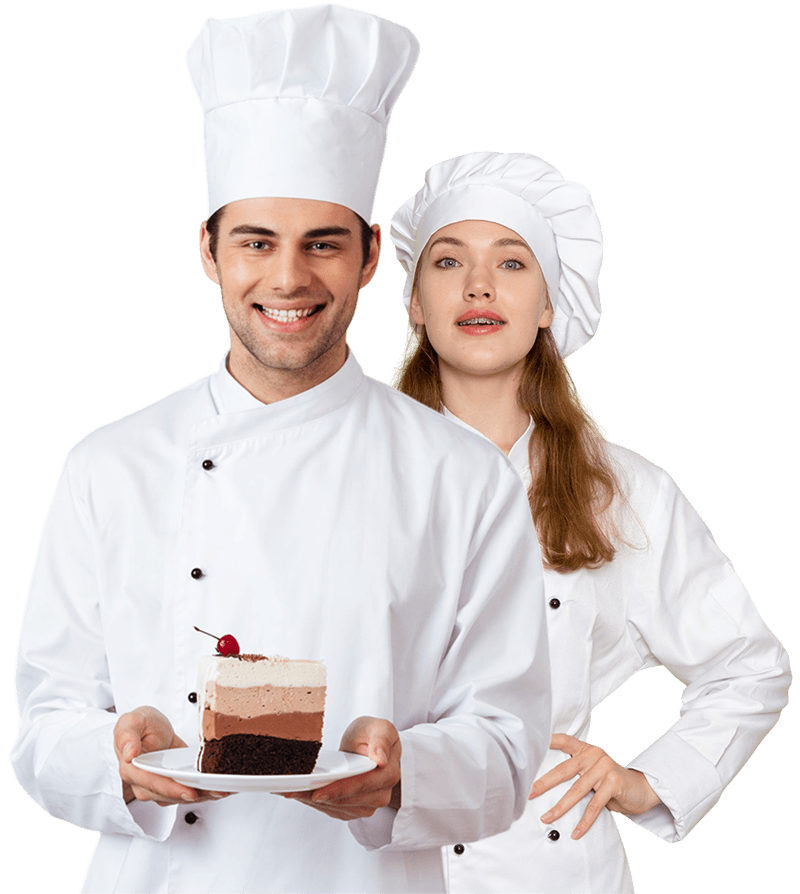
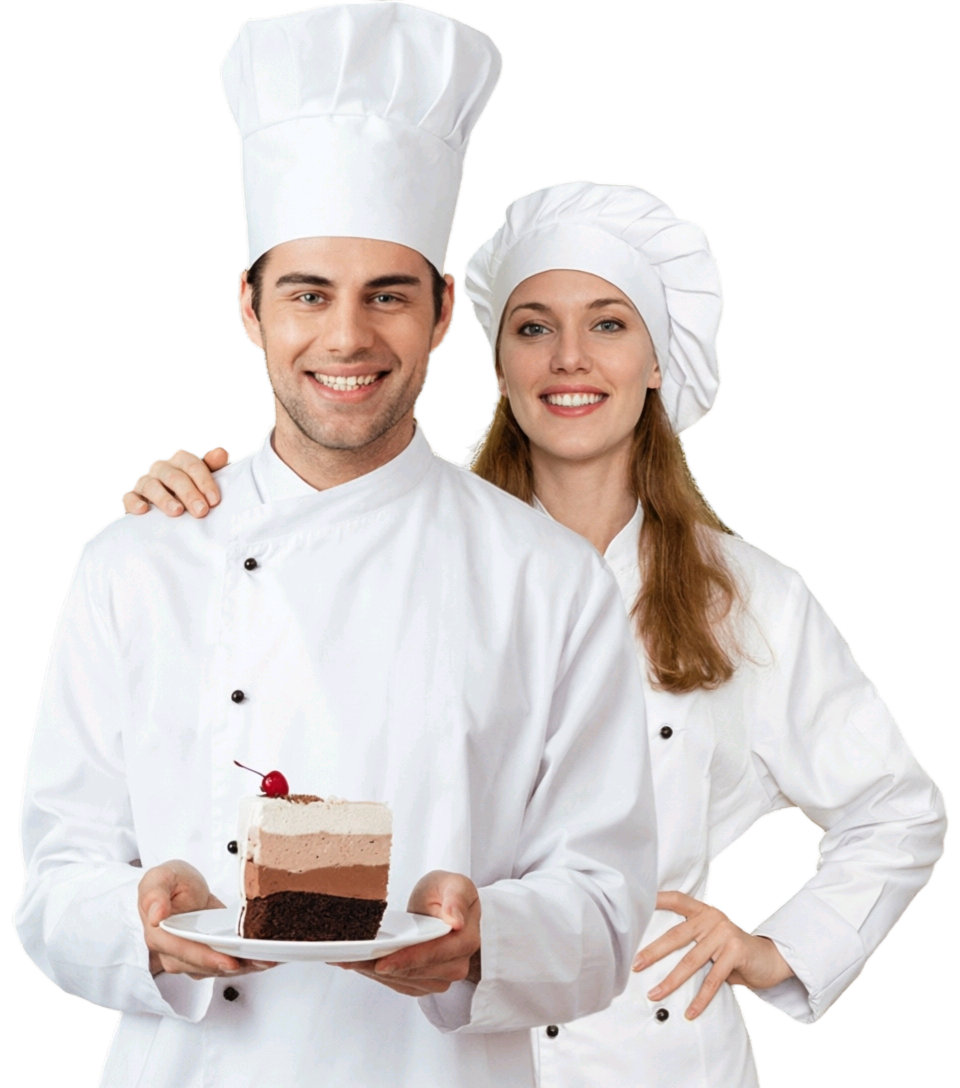
updated

diff --git a/assets/css/styles.css b/assets/css/styles.css
@@ -6,14 +6,14 @@
   --header-height: 3.5rem;
 
   /* Colors */
-  --first-color: hsl(350, 70%, 65%);
-  --first-color-alt: hsl(350, 70%, 62%);
-  --second-color: hsl(350, 40%, 20%);
-  --title-color: hsl(350, 28%, 15%);
-  --text-color: hsl(350, 25%, 28%);
+  --first-color: hsl(28, 70%, 62%);
+  --first-color-alt: hsl(0, 0%, 1%);
+  --second-color: hsl(28, 40%, 20%);
+  --title-color: hsl(28, 28%, 15%);
+  --text-color: hsl(28, 25%, 28%);
   --white-color: hsl(0, 0%, 100%);
-  --body-color: hsl(350, 95%, 90%);
-  --container-color: hsl(350, 100%, 97%);
+  --body-color: hsl(28, 95%, 90%);
+  --container-color: hsl(28, 100%, 97%);
 
   /* Font and typography */
   --body-font: "Montserrat", sans-serif;
@@ -225,7 +225,7 @@ img {
     background-color: var(--body-color);
     width: 80%;
     height: 100%;
-    box-shadow: -2px 0 16px hsla(350, 70%, 20%, 0.1);
+    box-shadow: -2px 0 16px hsla(28, 70%, 20%, 0.1);
     z-index: var(--z-fixed);
     transition: right 0.4s;
   }
@@ -238,7 +238,7 @@ img {
 
 /* Change header styles */
 .scroll-header {
-  box-shadow: 0 2px hsla(350, 70%, 20%, 0.1);
+  box-shadow: 0 2px hsla(28, 70%, 20%, 0.1);
 }
 
 /* Active link */
@@ -383,7 +383,7 @@ img {
 
 .button:hover {
   background-color: var(--first-color-alt);
-  box-shadow: 0 4px 24px hsla(350, 70%, 65%, 0.5);
+  box-shadow: 0 4px 24px hsla(28, 70%, 65%, 0.5);
 }
 
 /*=============== ABOUT SECTION ===============*/
@@ -482,7 +482,7 @@ img {
   bottom: 1.5rem;
   mask-image: linear-gradient(
     to bottom,
-    hsl(350, 70%, 65%) 85%,
+    hsl(28, 70%, 65%) 85%,
     transparent 95%
   );
 }
@@ -492,7 +492,7 @@ img {
   background-color: var(--white-color);
   color: var(--title-color);
   padding: 0.5rem 0.75rem;
-  box-shadow: 0 4px 24px hsla(350, 70%, 20%, 0.1);
+  box-shadow: 0 4px 24px hsla(28, 70%, 20%, 0.1);
   font-weight: 600;
   font-size: var(--small-font-size);
   border-radius: 4rem;
@@ -517,7 +517,7 @@ img {
   padding: 14rem 1.5rem 2rem;
   border-radius: 1.5rem;
   overflow: hidden;
-  box-shadow: 0 8px 16px hsla(350, 70%, 20%, 0.1);
+  box-shadow: 0 8px 16px hsla(28, 70%, 20%, 0.1);
   transition: transform 0.4s;
 }
 
@@ -538,7 +538,7 @@ img {
   right: 0;
   left: 0;
   margin-inline: auto;
-  filter: drop-shadow(0 8px 16px hsla(350, 70%, 8%, 0.2));
+  filter: drop-shadow(0 8px 16px hsla(28, 70%, 8%, 0.2));
   transition: transform 0.4s;
 }
 
@@ -567,7 +567,7 @@ img {
   color: var(--title-color);
   font-size: 1.5rem;
   border-radius: 0.75rem;
-  box-shadow: 0 4px 16px hsla(350, 70%, 65%, 0.3);
+  box-shadow: 0 4px 16px hsla(28, 70%, 65%, 0.3);
   display: grid;
   place-items: center;
   cursor: pointer;
@@ -602,7 +602,7 @@ img {
 
 .product__tabs .swiper-slide-thumb-active {
   background-color: var(--first-color);
-  box-shadow: 0 4px 16px hsla(350, 70%, 65%, 0.5);
+  box-shadow: 0 4px 16px hsla(28, 70%, 65%, 0.5);
 }
 
 /*=============== NEW SECTION ===============*/
@@ -685,7 +685,7 @@ img {
 }
 
 .new .swiper-slide-active .new__cake {
-  filter: drop-shadow(0 8px 16px hsla(350, 70%, 8%, 0.2));
+  filter: drop-shadow(0 8px 16px hsla(28, 70%, 8%, 0.2));
 }
 
 .new .swiper-slide-active .new__name {
@@ -873,15 +873,15 @@ img {
 /*=============== SCROLL BAR ===============*/
 ::-webkit-scrollbar {
   width: 0.6rem;
-  background-color: hsl(350, 40%, 75%);
+  background-color: hsl(28, 40%, 75%);
 }
 
 ::-webkit-scrollbar-thumb {
-  background-color: hsl(350, 40%, 65%);
+  background-color: hsl(28, 40%, 65%);
 }
 
 ::-webkit-scrollbar-thumb:hover {
-  background-color: hsl(350, 40%, 55%);
+  background-color: hsl(28, 40%, 55%);
 }
 
 /*=============== SCROLL UP ===============*/
@@ -890,7 +890,7 @@ img {
   right: 1rem;
   bottom: -50%;
   background-color: var(--body-color);
-  box-shadow: 0 4px 16px hsla(350, 70%, 20%, 0.2);
+  box-shadow: 0 4px 16px hsla(28, 70%, 20%, 0.2);
   color: var(--title-color);
   display: inline-flex;
   padding: 6px;
@@ -1034,8 +1034,8 @@ img {
   }
 
   .home__balloons {
-    width: 140px;
-    top: -7rem;
+    width: 240px;
+    top: -10rem;
     right: -1rem;
   }
 

diff --git a/index.html b/index.html
@@ -80,7 +80,7 @@
       <section class="home section" id="home">
         <div class="home__container container grid">
           <div class="home__data">
-            <h1 class="home__title">Best Custom <span>Cakes Bakery</span></h1>
+            <h1 class="home__title"> Custom <span>Cakes Bakery</span></h1>
 
             <p class="home__description">
               We create handcrafted cakes made with love, premium ingredients,
@@ -839,7 +839,7 @@
         <ul class="footer__social">
           <li>
             <a
-              href="https://www.facebook.com/bedimcode"
+              href="https://www.facebook.com/"
               target="_blank"
               rel="noopener noreferrer"
               class="footer__social-link"
@@ -850,7 +850,7 @@
 
           <li>
             <a
-              href="https://www.instagram.com/bedimcode/"
+              href="https://www.instagram.com/"
               target="_blank"
               rel="noopener noreferrer"
               class="footer__social-link"
@@ -861,7 +861,7 @@
 
           <li>
             <a
-              href="https://x.com/bedimcode/"
+              href="https://x.com/"
               target="_blank"
               rel="noopener noreferrer"
               class="footer__social-link"
@@ -871,9 +871,7 @@
           </li>
         </ul>
 
-        <small class="footer__copy"
-          >&#169; All Rights Reserved By Bedimcode</small
-        >
+        <small class="footer__copy">&#169; All Rights Reserved By Tashi</small>
 
         <img src="assets/img/leaf-1.png" alt="" class="footer__leaf-1" />
         <img src="assets/img/leaf-2.png" alt="" class="footer__leaf-2" />

diff --git a/assets/js/main.js b/assets/js/main.js
@@ -45,7 +45,7 @@ document.addEventListener("DOMContentLoaded", () => {
         },
       },
       autoplay: {
-        delay: 2000,
+        delay: 3000,
         disableOnInteraction: false,
       },
     });